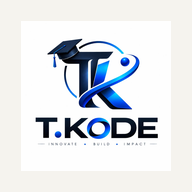
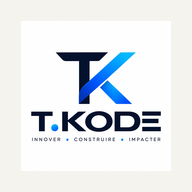
Update portfolio branding assets

Changed region(s): [[0.1562, 0.1875, 0.8438, 0.7812]]

diff --git a/certifications/index.html b/certifications/index.html
@@ -3,7 +3,7 @@
   <head>
     <meta charset="UTF-8" />
     <base href="../" />
-    <link rel="shortcut icon" href="assets/img/WhatsApp Image 2026-08-20 at 23.42.30.jpeg" type="image/x-icon">
+    <link rel="shortcut icon" href="assets/img/tkode.jpeg" type="image/jpeg">
     <meta name="viewport" content="width=device-width, initial-scale=1.0" />
     <meta name="description" content="Certifications et diplômes de Toussaint Koffi" />
     <meta name="theme-color" content="#18252b" />
@@ -24,7 +24,7 @@
     </div>
     <header>
       <nav>
-        <h1 class="logo"><a href="./"><img src="assets/img/WhatsApp%20Image%202026-08-20%20at%2023.42.30.jpeg" alt="Logo T.KODE" /></a></h1>
+        <h1 class="logo"><a href="./"><img src="assets/img/tkode.jpeg" alt="Logo T.KODE" /></a></h1>
         <button class="menu-toggle" id="menuToggle" type="button" title="Ouvrir le menu" aria-label="Ouvrir le menu">
           <span></span><span></span><span></span>
         </button>

diff --git a/index.html b/index.html
@@ -2,7 +2,7 @@
 <html lang="fr">
   <head>
     <meta charset="UTF-8" />
-    <link rel="shortcut icon" href="assets/img/WhatsApp Image 2026-08-20 at 23.42.30.jpeg" type="image/x-icon">
+    <link rel="shortcut icon" href="assets/img/tkode.jpeg" type="image/jpeg">
     <meta name="viewport" content="width=device-width, initial-scale=1.0" />
     <title>Toussaint Koffi - Portfolio</title>
     <meta
@@ -30,7 +30,7 @@
     <header>
       <nav>
         <h1 class="logo">
-          <a href="#home"><img src="assets/img/WhatsApp%20Image%202026-08-20%20at%2023.42.30.jpeg" alt="Logo T.KODE" /></a>
+          <a href="#home"><img src="assets/img/tkode.jpeg" alt="Logo T.KODE" /></a>
         </h1>
         <button class="menu-toggle" id="menuToggle" title="Menu">
           <span></span>

diff --git a/service-worker.js b/service-worker.js
@@ -1,4 +1,4 @@
-const CACHE_NAME = "toussaint-portfolio-v7";
+const CACHE_NAME = "toussaint-portfolio-v8";
 const APP_SHELL = [
   "./",
   "./certifications/",
@@ -12,7 +12,7 @@ const APP_SHELL = [
   "./assets/font/fonts/bootstrap-icons.woff2",
   "./assets/img/icon-192.png",
   "./assets/img/icon-512.png",
-  "./assets/img/WhatsApp%20Image%202026-08-20%20at%2023.42.30.jpeg",
+  "./assets/img/tkode.jpeg",
   "./assets/img/WhatsApp%20Image%202026-08-21%20at%2001.00.04.jpeg",
 ];
 
